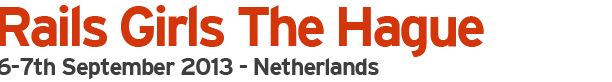
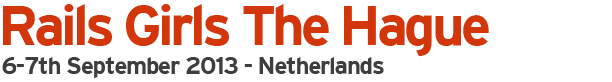
add header for RG The Hague

Changed region(s): [[0.0, 0.0488, 0.8072, 0.7073], [0.0, 0.6829, 0.652, 0.9756]]

diff --git a/css/style.css b/css/style.css
@@ -190,6 +190,11 @@ background:url('../images/rg-austin.jpg') no-repeat 0 10px,
   background:url('../images/rg-rotterdam.png') no-repeat 0 10px,
                  url('../images/separator.png') no-repeat center bottom;
 }
+.thehague#promo {
+  padding-left:340px;
+  background:url('../images/rg-thehague.png') no-repeat 0 10px,
+                 url('../images/separator.png') no-repeat center bottom;
+}
 
 .sanfrancisco#promo {
   padding-left:340px;
@@ -417,6 +422,12 @@ pre {
 .rotterdam#promo h1 {
   background:url('../images/rg-rotterdam-header.png') no-repeat left top;
 }
+
+.thehague#promo h1 {
+  background:url('../images/RG-thehague-header.png') no-repeat left top;
+  height: 90px;
+}
+
 
 .singapore#promo h1 {
   background:url('../images/rg-singapore-header.png') no-repeat left top;

diff --git a/thehague.html b/thehague.html
@@ -40,7 +40,7 @@
     <div id="container" class="container_12 page clearfix">
       <div class="grid_12 omega alpha">
         <div id="promo" class="thehague">
-        <h1>Rails Girls Rotterdam</h1>
+        <h1>Rails Girls The Hague</h1>
         <p>Hello The Hague!</p><p>
             Rails Girls will land in The Hague to help aspiring lady techies build an application. We can't wait to dive into the magical world of Ruby on Rails with you!</p>
           <p>We'll open applications early July this year. Follow us on Twitter via <a href="https://twitter.com/RailsGirls_DH">@RailsGirls_DH</a>!</p>
